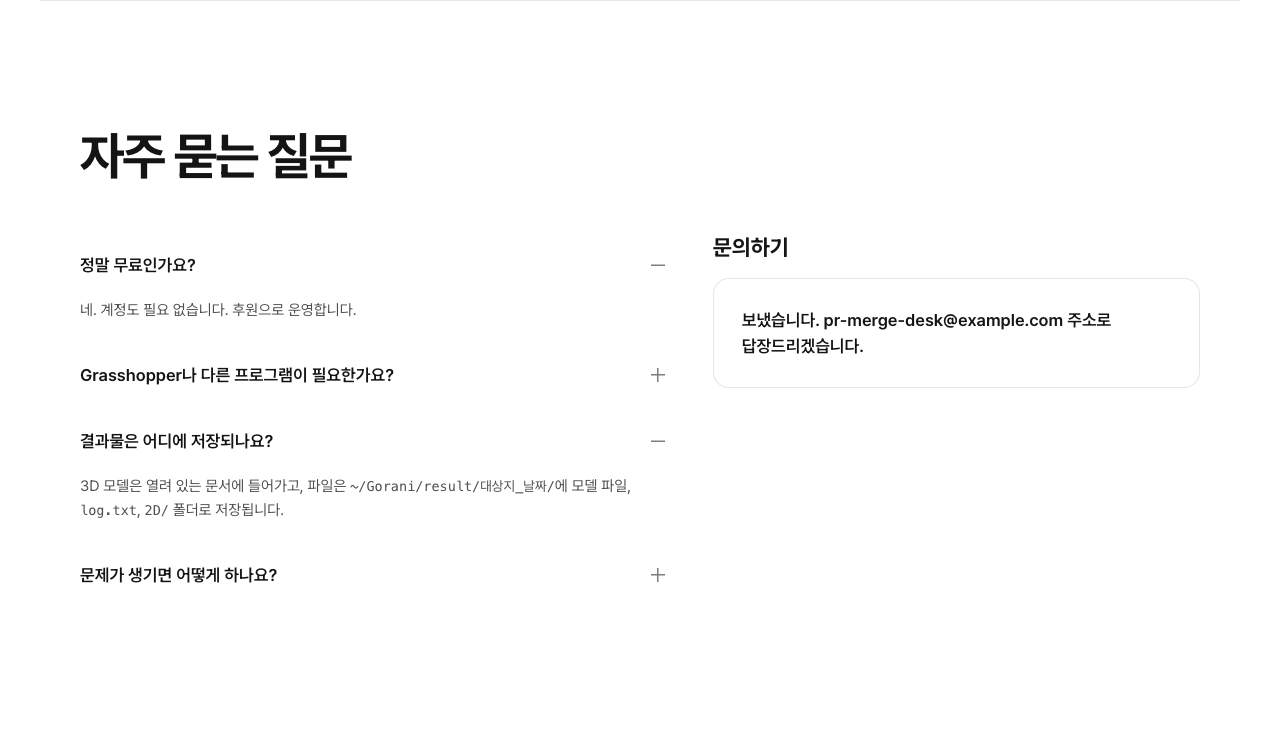
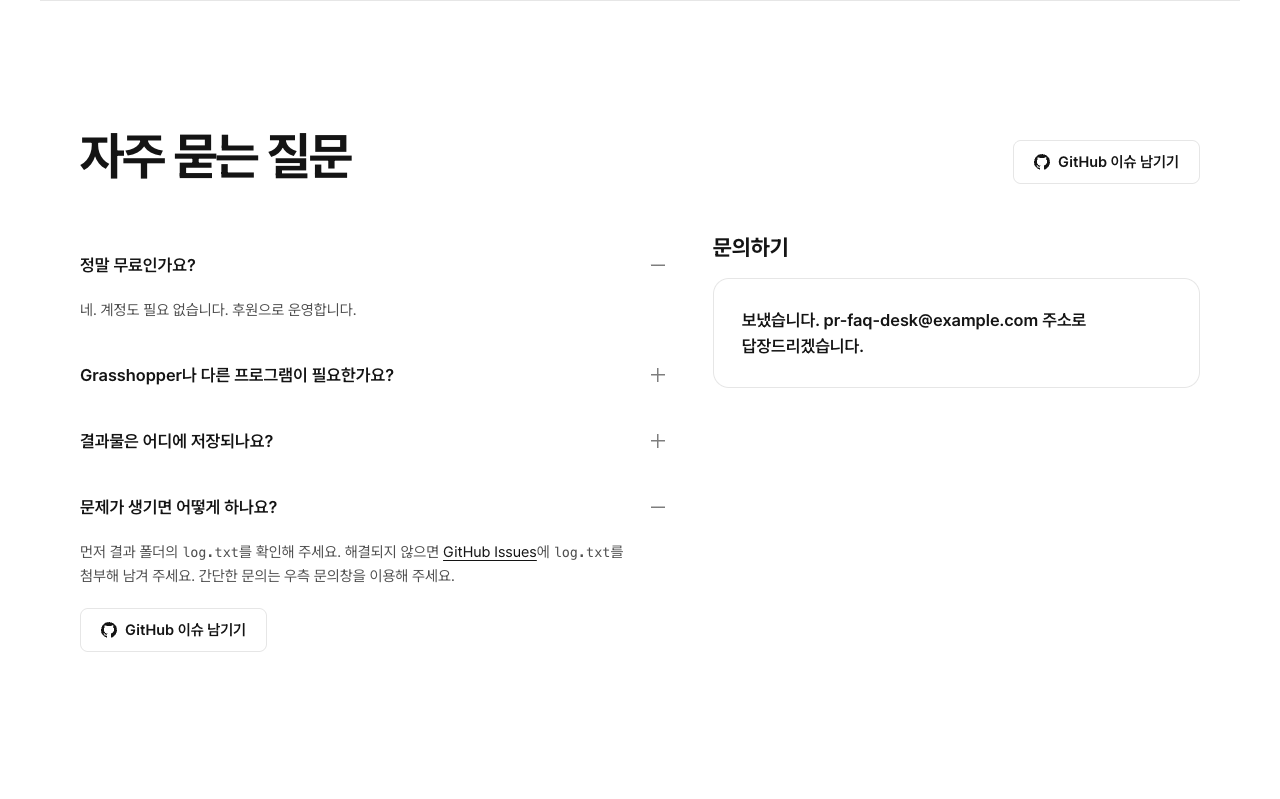
FAQ에 GitHub 이슈 바로가기 버튼 추가 및 문의창 주제에 '사용자 리뷰' 추가
- FAQ 섹션 머리 및 '문제가 생기면 어떻게 하나요?' 답변에 GitHub 이슈 이동 버튼 추가(다섯 언어)
- '문제가 생기면 어떻게 하나요?' 답변에 GitHub Issues 링크 유지 및 문의창 안내 문구 추가
- 문의창 주제 선택지에 '사용자 리뷰'(review) 추가 및 Code.gs(v3) 연동 반영
- PR용 스크린샷 갱신

diff --git a/ja/index.html b/ja/index.html
@@ -612,6 +612,7 @@
     <div class="wrap">
       <div class="block-head">
         <h2 id="faq-title">よくある質問</h2>
+        <a class="btn" href="https://github.com/969flash/gorani-plugin/issues" target="_blank" rel="noopener"><svg aria-hidden="true"><use href="#i-github"/></svg>GitHub Issue を投稿</a>
       </div>
       <div class="faq-contact">
         <div class="faq">
@@ -629,7 +630,8 @@
           </details>
           <details class="faq-item">
             <summary><h3>問題が起きたらどうすればいいですか？</h3></summary>
-            <p>まず結果フォルダの<code>log.txt</code>を確認してください。解決しない場合は<a href="#contact">お問い合わせ</a>ください。<code>log.txt</code>の内容を貼り付けていただくと、原因をすぐに確認できます。</p>
+            <p>まず結果フォルダーの <code>log.txt</code> をご確認ください。解決しない場合は <code>log.txt</code> を添付して <a href="https://github.com/969flash/gorani-plugin/issues" target="_blank" rel="noopener">GitHub Issues</a> に投稿してください。簡単なご質問は右側のお問い合わせフォームをご利用ください。</p>
+            <div class="faq-act"><a class="btn" href="https://github.com/969flash/gorani-plugin/issues" target="_blank" rel="noopener"><svg aria-hidden="true"><use href="#i-github"/></svg>GitHub Issue を投稿</a></div>
           </details>
         </div>
         <div class="contact" id="contact" aria-labelledby="contact-title">
@@ -653,6 +655,7 @@
                   <option value="bug">不具合の報告</option>
                   <option value="data">地域・データのご要望</option>
                   <option value="idea">機能のご提案</option>
+                  <option value="review">ユーザーレビュー</option>
                   <option value="other">その他</option>
               </select>
             </div>

diff --git a/index.html b/index.html
@@ -612,6 +612,7 @@
     <div class="wrap">
       <div class="block-head">
         <h2 id="faq-title">자주 묻는 질문</h2>
+        <a class="btn" href="https://github.com/969flash/gorani-plugin/issues" target="_blank" rel="noopener"><svg aria-hidden="true"><use href="#i-github"/></svg>GitHub 이슈 남기기</a>
       </div>
       <div class="faq-contact">
         <div class="faq">
@@ -629,7 +630,8 @@
           </details>
           <details class="faq-item">
             <summary><h3>문제가 생기면 어떻게 하나요?</h3></summary>
-            <p>먼저 결과 폴더의 <code>log.txt</code>를 확인해 주세요. 해결되지 않으면 <a href="#contact">문의</a>를 남겨 주세요. <code>log.txt</code> 내용을 붙여 주시면 원인을 빨리 찾을 수 있습니다.</p>
+            <p>먼저 결과 폴더의 <code>log.txt</code>를 확인해 주세요. 해결되지 않으면 <a href="https://github.com/969flash/gorani-plugin/issues" target="_blank" rel="noopener">GitHub Issues</a>에 <code>log.txt</code>를 첨부해 남겨 주세요. 간단한 문의는 우측 문의창을 이용해 주세요.</p>
+            <div class="faq-act"><a class="btn" href="https://github.com/969flash/gorani-plugin/issues" target="_blank" rel="noopener"><svg aria-hidden="true"><use href="#i-github"/></svg>GitHub 이슈 남기기</a></div>
           </details>
         </div>
         <div class="contact" id="contact" aria-labelledby="contact-title">
@@ -653,6 +655,7 @@
                   <option value="bug">오류 신고</option>
                   <option value="data">지역·데이터 요청</option>
                   <option value="idea">기능 제안</option>
+                  <option value="review">사용자 리뷰</option>
                   <option value="other">기타</option>
               </select>
             </div>

diff --git a/es/index.html b/es/index.html
@@ -612,6 +612,7 @@
     <div class="wrap">
       <div class="block-head">
         <h2 id="faq-title">Preguntas frecuentes</h2>
+        <a class="btn" href="https://github.com/969flash/gorani-plugin/issues" target="_blank" rel="noopener"><svg aria-hidden="true"><use href="#i-github"/></svg>Abrir issue en GitHub</a>
       </div>
       <div class="faq-contact">
         <div class="faq">
@@ -629,7 +630,8 @@
           </details>
           <details class="faq-item">
             <summary><h3>Algo salió mal. ¿Qué hago?</h3></summary>
-            <p>Primero revisa <code>log.txt</code> en la carpeta de resultados. Si no se resuelve, <a href="#contact">escríbenos</a>. Si pegas el contenido de <code>log.txt</code>, encontraremos la causa más rápido.</p>
+            <p>Primero revise <code>log.txt</code> en la carpeta de resultados. Si el problema continúa, abra un <a href="https://github.com/969flash/gorani-plugin/issues" target="_blank" rel="noopener">GitHub Issue</a> adjuntando <code>log.txt</code>. Para consultas simples, utilice el formulario de contacto a la derecha.</p>
+            <div class="faq-act"><a class="btn" href="https://github.com/969flash/gorani-plugin/issues" target="_blank" rel="noopener"><svg aria-hidden="true"><use href="#i-github"/></svg>Abrir issue en GitHub</a></div>
           </details>
         </div>
         <div class="contact" id="contact" aria-labelledby="contact-title">
@@ -653,6 +655,7 @@
                   <option value="bug">Informar de un error</option>
                   <option value="data">Petición de región o datos</option>
                   <option value="idea">Idea de función</option>
+                  <option value="review">Reseña de usuario</option>
                   <option value="other">Otro</option>
               </select>
             </div>

diff --git a/en/index.html b/en/index.html
@@ -612,6 +612,7 @@
     <div class="wrap">
       <div class="block-head">
         <h2 id="faq-title">FAQ</h2>
+        <a class="btn" href="https://github.com/969flash/gorani-plugin/issues" target="_blank" rel="noopener"><svg aria-hidden="true"><use href="#i-github"/></svg>Open GitHub issue</a>
       </div>
       <div class="faq-contact">
         <div class="faq">
@@ -629,7 +630,8 @@
           </details>
           <details class="faq-item">
             <summary><h3>Something went wrong. What should I do?</h3></summary>
-            <p>First check <code>log.txt</code> in the result folder. If that doesn't solve it, <a href="#contact">send us a message</a>. Pasting the contents of <code>log.txt</code> helps us find the cause quickly.</p>
+            <p>First check <code>log.txt</code> in the result folder. If that doesn't solve it, please open a <a href="https://github.com/969flash/gorani-plugin/issues" target="_blank" rel="noopener">GitHub Issue</a> with <code>log.txt</code> attached. For simple inquiries, please use the contact form on the right.</p>
+            <div class="faq-act"><a class="btn" href="https://github.com/969flash/gorani-plugin/issues" target="_blank" rel="noopener"><svg aria-hidden="true"><use href="#i-github"/></svg>Open GitHub issue</a></div>
           </details>
         </div>
         <div class="contact" id="contact" aria-labelledby="contact-title">
@@ -653,6 +655,7 @@
                   <option value="bug">Bug report</option>
                   <option value="data">Region or data request</option>
                   <option value="idea">Feature idea</option>
+                  <option value="review">User review</option>
                   <option value="other">Other</option>
               </select>
             </div>

diff --git a/zh/index.html b/zh/index.html
@@ -612,6 +612,7 @@
     <div class="wrap">
       <div class="block-head">
         <h2 id="faq-title">常见问题</h2>
+        <a class="btn" href="https://github.com/969flash/gorani-plugin/issues" target="_blank" rel="noopener"><svg aria-hidden="true"><use href="#i-github"/></svg>提交 GitHub Issue</a>
       </div>
       <div class="faq-contact">
         <div class="faq">
@@ -629,7 +630,8 @@
           </details>
           <details class="faq-item">
             <summary><h3>出现问题怎么办？</h3></summary>
-            <p>请先查看结果文件夹中的 <code>log.txt</code>。如果仍未解决，请<a href="#contact">联系我们</a>。附上 <code>log.txt</code> 的内容，能帮助我们更快找到原因。</p>
+            <p>请先查看结果文件夹中的 <code>log.txt</code>。如果仍未解决，请在 <a href="https://github.com/969flash/gorani-plugin/issues" target="_blank" rel="noopener">GitHub Issues</a> 提交问题并附上 <code>log.txt</code>。简单咨询请使用右侧的联系表单。</p>
+            <div class="faq-act"><a class="btn" href="https://github.com/969flash/gorani-plugin/issues" target="_blank" rel="noopener"><svg aria-hidden="true"><use href="#i-github"/></svg>提交 GitHub Issue</a></div>
           </details>
         </div>
         <div class="contact" id="contact" aria-labelledby="contact-title">
@@ -653,6 +655,7 @@
                   <option value="bug">错误报告</option>
                   <option value="data">地区·数据需求</option>
                   <option value="idea">功能建议</option>
+                  <option value="review">用户评价</option>
                   <option value="other">其他</option>
               </select>
             </div>

diff --git a/assets/style.css b/assets/style.css
@@ -375,6 +375,7 @@ body.motion-ready .reveal.in-view { opacity: 1; transform: none; }
 .faq-item summary:focus-visible { outline: 2px solid var(--ink); outline-offset: 2px; border-radius: 4px; }
 .faq-item h3 { margin: 0; font-size: 17px; line-height: 26px; font-weight: 600; }
 .faq-item p { margin: 0; padding: 0 32px 20px 0; font-size: 15px; line-height: 24px; color: var(--ink-2); }
+.faq-act { padding: 0 32px 20px 0; }
 .faq-item[open] p { animation: faq-open .32s cubic-bezier(.2,.8,.2,1); }
 @keyframes faq-open { from { opacity: 0; transform: translateY(-4px); } }
 
@@ -486,6 +487,7 @@ body.motion-ready .reveal.in-view { opacity: 1; transform: none; }
 }
 @media (max-width: 640px) {
   .faq-item p { padding: 0 0 20px; }
+  .faq-act { padding: 0 0 20px; }
   .top .wrap { gap: 12px; }
   .nav { display: none; }
   .menu-switch { display: block; }
